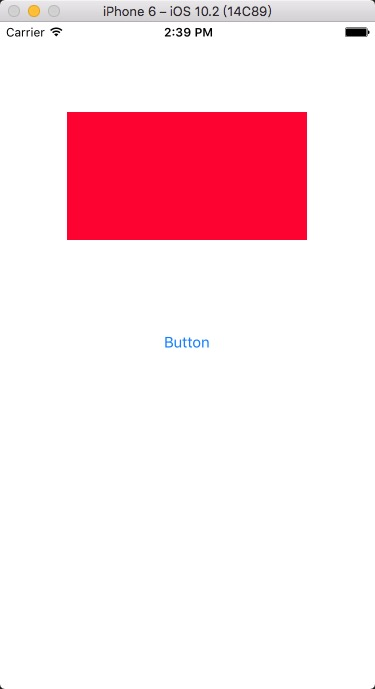
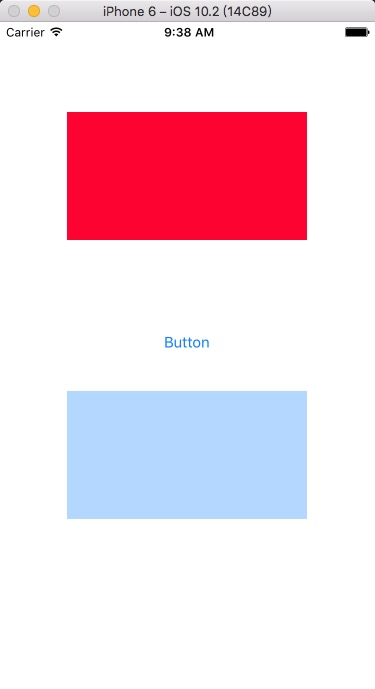
UIView

Changed region(s): [[0.176, 0.5486, 0.8213, 0.762], [0.44, 0.0305, 0.5867, 0.061], [0.9973, 0.9753, 1.0, 1.0]]

diff --git a/RuntimeDemo/UIView+RLUIViewAction.m b/RuntimeDemo/UIView+RLUIViewAction.m
@@ -1,0 +1,36 @@
+//
+//  UIView+RLUIViewAction.m
+//  RuntimeDemo
+//
+//  Created by runlin on 17/4/5.
+//  Copyright © 2017年 gavin. All rights reserved.
+//
+
+#import "UIView+RLUIViewAction.h"
+#import <objc/runtime.h>
+
+static const void *RLUIViewActionEventBlockKey = "RLUIViewActionEventBlockKey";
+
+@implementation UIView (RLUIViewAction)
+-(void)addUIViewTouchBlock:(UIViewActionBlock)touchBlock{
+    
+    UITapGestureRecognizer *tap = [[UITapGestureRecognizer alloc] initWithTarget:self action:@selector(callUIViewActionBlock:)];
+    [self addGestureRecognizer:tap];
+    
+    objc_setAssociatedObject(self, &RLUIViewActionEventBlockKey, touchBlock ,OBJC_ASSOCIATION_COPY_NONATOMIC);
+}
+
+
+
+
+- (void)callUIViewActionBlock:(id)sender {
+    
+    UIViewActionBlock block = (UIViewActionBlock)objc_getAssociatedObject(self, &RLUIViewActionEventBlockKey);
+    
+    if (block) {
+        block(sender);
+    }
+}
+
+
+@end

diff --git a/RuntimeDemo/ViewController.m b/RuntimeDemo/ViewController.m
@@ -9,11 +9,13 @@
 #import "ViewController.h"
 #import "UIControl+TouchBlock.h"
 #import "UIButton+RLButtonActionBlock.h"
+#import "UIView+RLUIViewAction.h"
 
 @interface ViewController ()
 
 @property (weak, nonatomic) IBOutlet UIControl *testControl;
 @property (weak, nonatomic) IBOutlet UIButton *buttonTouch;
+@property (weak, nonatomic) IBOutlet UIView *viewTouch;
 
 @end
 
@@ -29,7 +31,18 @@
     
     [self.buttonTouch addButtonTouchBlock:^(id sender) {
         NSLog(@"%@",sender);
+        
     }];
+    
+    
+    [self.viewTouch addUIViewTouchBlock:^(id sender) {
+        NSLog(@"%@" , sender);
+    }];
+    
+
+    
+    
+    
 }
 
 - (void)didReceiveMemoryWarning {

diff --git a/RuntimeDemo/UIView+RLUIViewAction.h b/RuntimeDemo/UIView+RLUIViewAction.h
@@ -1,0 +1,19 @@
+//
+//  UIView+RLUIViewAction.h
+//  RuntimeDemo
+//
+//  Created by runlin on 17/4/5.
+//  Copyright © 2017年 gavin. All rights reserved.
+//
+
+#import <UIKit/UIKit.h>
+
+typedef void (^UIViewActionBlock)(id sender);
+
+@interface UIView (RLUIViewAction)
+
+
+
+-(void)addUIViewTouchBlock:(UIViewActionBlock)touchBlock;
+
+@end
